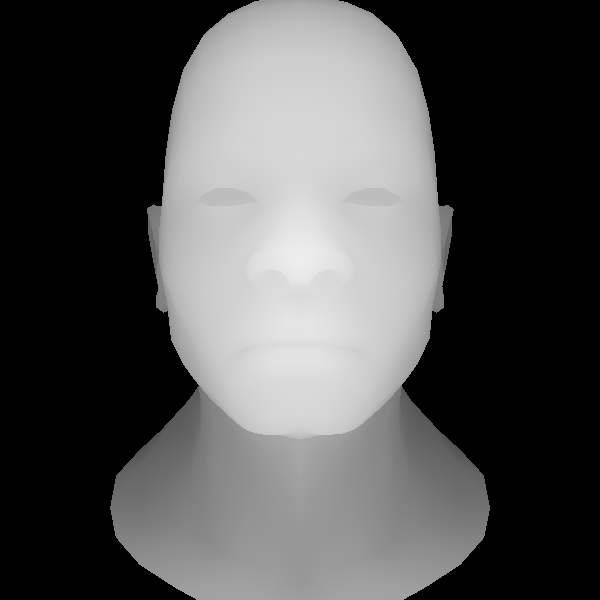
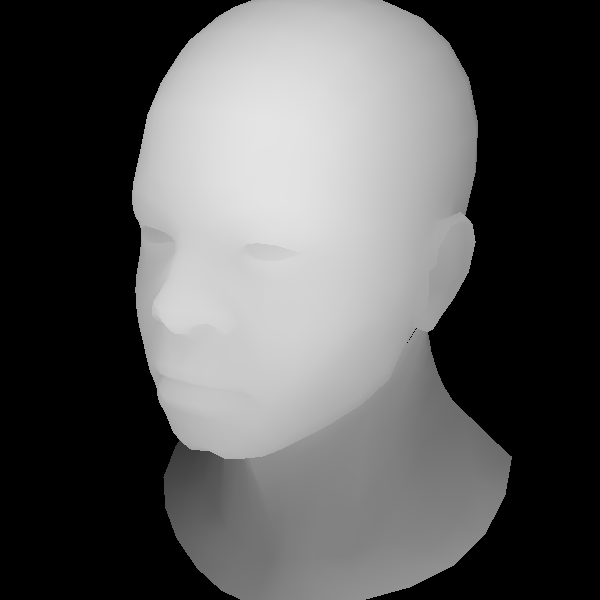
First implementation of smoothing

diff --git a/src/object.rs b/src/object.rs
@@ -66,14 +66,24 @@ impl Object {
         let mut zbuffer: Vec<Vec<f32>> = vec![vec![0.0; height as usize]; width as usize];
 
         for face in self.model.faces() {
+            let average = (face.normals().0 + face.normals().1 + face.normals().2) / 3.0;
+            if average.dot(self.camera.view_dir()) < 0.0 {
+                continue;
+            }
             let mut triangle_3d = Triangle3d::from_vertices(face.vertices());
             self.camera.transform(&mut triangle_3d);
 
-            let normal_vector = triangle_3d.get_normal();
-            let intensity = light_direction.dot(&normal_vector);
+            // let normal_vector = triangle_3d.get_normal();
             let color_triangle = get_color_triangle(face.texture(), &self.texture);
 
-            self.draw_triangle(img, &triangle_3d, intensity, &mut zbuffer, &color_triangle);
+            self.draw_triangle(
+                img,
+                &triangle_3d,
+                &light_direction,
+                &mut zbuffer,
+                &color_triangle,
+                face.normals(),
+            );
         }
 
         draw_grey_image(zbuffer, width, height);
@@ -83,9 +93,10 @@ impl Object {
         &self,
         image: &mut RgbImage,
         triangle: &Triangle3d,
-        intensity: f32,
+        intensity: &Vector3<f32>,
         zbuffer: &mut [Vec<f32>],
         texture: &(Vector3<f32>, Vector3<f32>, Vector3<f32>),
+        normals: &(Vector3<f32>, Vector3<f32>, Vector3<f32>),
     ) {
         let ((x0, y0), (x1, y1)) = get_bounding_box(triangle);
         let (x0, y0, x1, y1) = clamp(x0, y0, x1, y1, image.dimensions());
@@ -94,7 +105,16 @@ impl Object {
             for y in y0..=y1 {
                 if let Some((s, t, u)) = triangle.contains_point((x, y)) {
                     let z = s * triangle.a.z + t * triangle.b.z + u * triangle.c.z;
-                    self.draw_point((s, t, u), zbuffer, (x, y, z), texture, intensity, image);
+                    let normal = (s * normals.0 + t * normals.1 + u * normals.2).normalize();
+                    self.draw_point(
+                        (s, t, u),
+                        zbuffer,
+                        (x, y, z),
+                        texture,
+                        intensity,
+                        image,
+                        normal,
+                    );
                 }
             }
         }
@@ -106,19 +126,22 @@ impl Object {
         zbuffer: &mut [Vec<f32>],
         (x, y, z): (u32, u32, f32),
         texture: &(Vector3<f32>, Vector3<f32>, Vector3<f32>),
-        intensity: f32,
+        intensity: &Vector3<f32>,
         image: &mut ImageBuffer<Rgb<u8>, Vec<u8>>,
+        normal: Vector3<f32>,
     ) {
         if zbuffer[x as usize][y as usize] < z {
-            // let texture_x = (texture.0.x * s + texture.1.x * t + texture.2.x * u) as u32;
-            // let texture_y = (texture.0.y * s + texture.1.y * t + texture.2.y * u) as u32;
+            let texture_x = (texture.0.x * s + texture.1.x * t + texture.2.x * u) as u32;
+            let texture_y = (texture.0.y * s + texture.1.y * t + texture.2.y * u) as u32;
+            let intensity = (-1.0) * intensity.dot(&normal);
 
-            // let color = self
-            //     .texture
-            //     .get_pixel(texture_x, texture_y)
-            //     .map(|x| (x as f32 * intensity) as u8);
+            let color = self
+                .texture
+                .get_pixel(texture_x, texture_y)
+                .map(|x| (x as f32 * intensity) as u8);
 
-            let color: Rgb<u8> = Rgb([255, 255, 255]).map(|x| (x as f32 * intensity) as u8);
+            // let color: Rgb<u8> =
+            //     Rgb([255, 255, 255]).map(|x| (x as f32 * (-1.0) * intensity.dot(&normal)) as u8);
 
             image.put_pixel(x, y, color);
             zbuffer[x as usize][y as usize] = z;

diff --git a/src/camera.rs b/src/camera.rs
@@ -60,7 +60,7 @@ impl Camera {
         self.model_view = matrix![x.x, x.y, x.z, -focus.x; y.x, y.y, y.z, -focus.y; z.x, z.y, z.z, -focus.z; 0.0, 0.0, 0.0, 1.0];
     }
 
-    pub fn view_dir(&self) -> Vector3<f32> {
-        self.viewing_direction
+    pub fn view_dir(&self) -> &Vector3<f32> {
+        &self.viewing_direction
     }
 }

diff --git a/src/bin/main.rs b/src/bin/main.rs
@@ -10,7 +10,7 @@ fn main() {
     let texture = format!("data/{name}_diffuse.tga");
     let output = format!("output/{name}.png");
 
-    let origin = (0.0, 0.0, -3.0);
+    let origin = (-2.0, -1.0, -3.0);
     let focus = (0.0, 0.0, 0.0);
     let up = (0.0, 1.0, 0.0);
 
